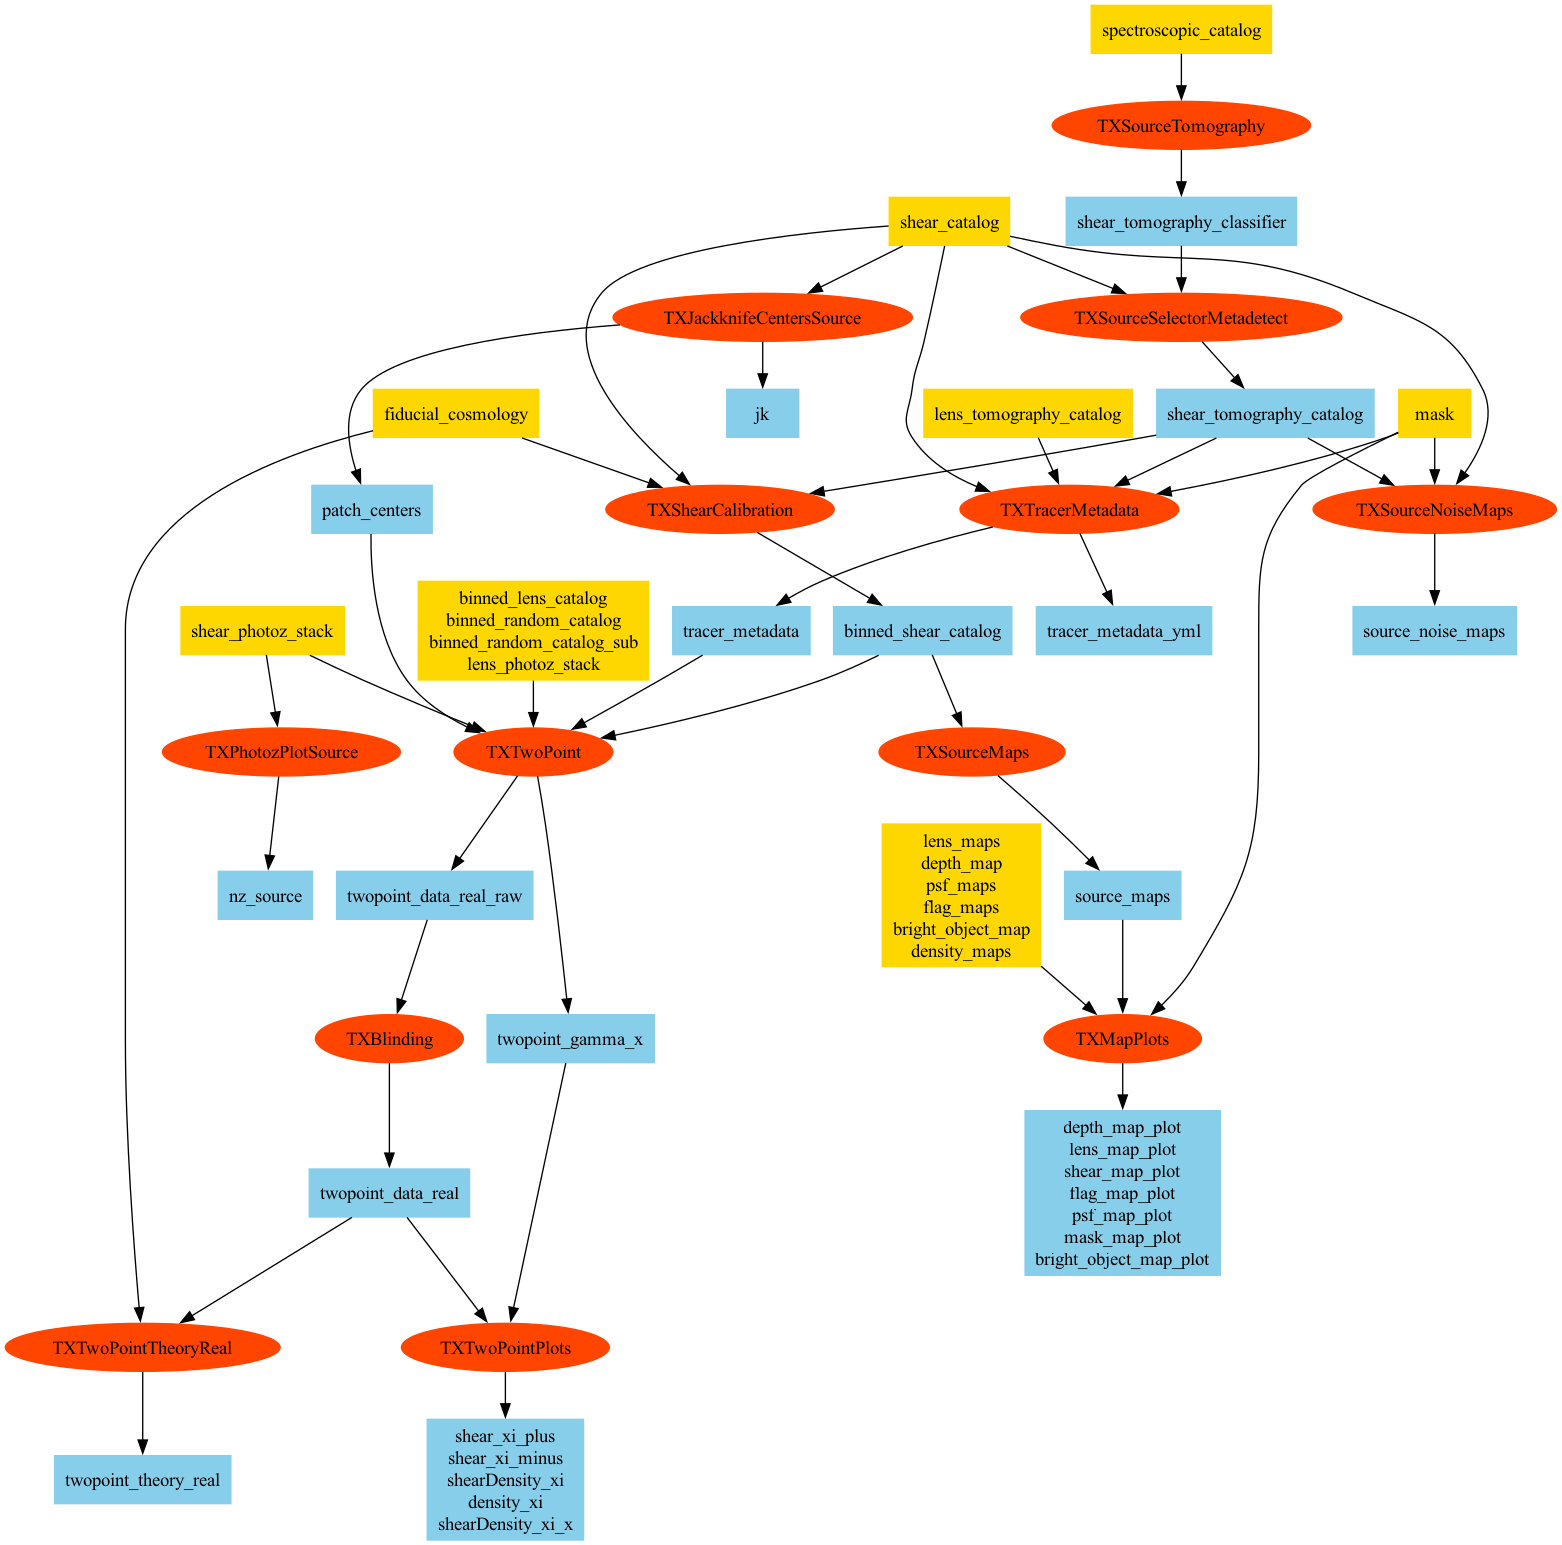
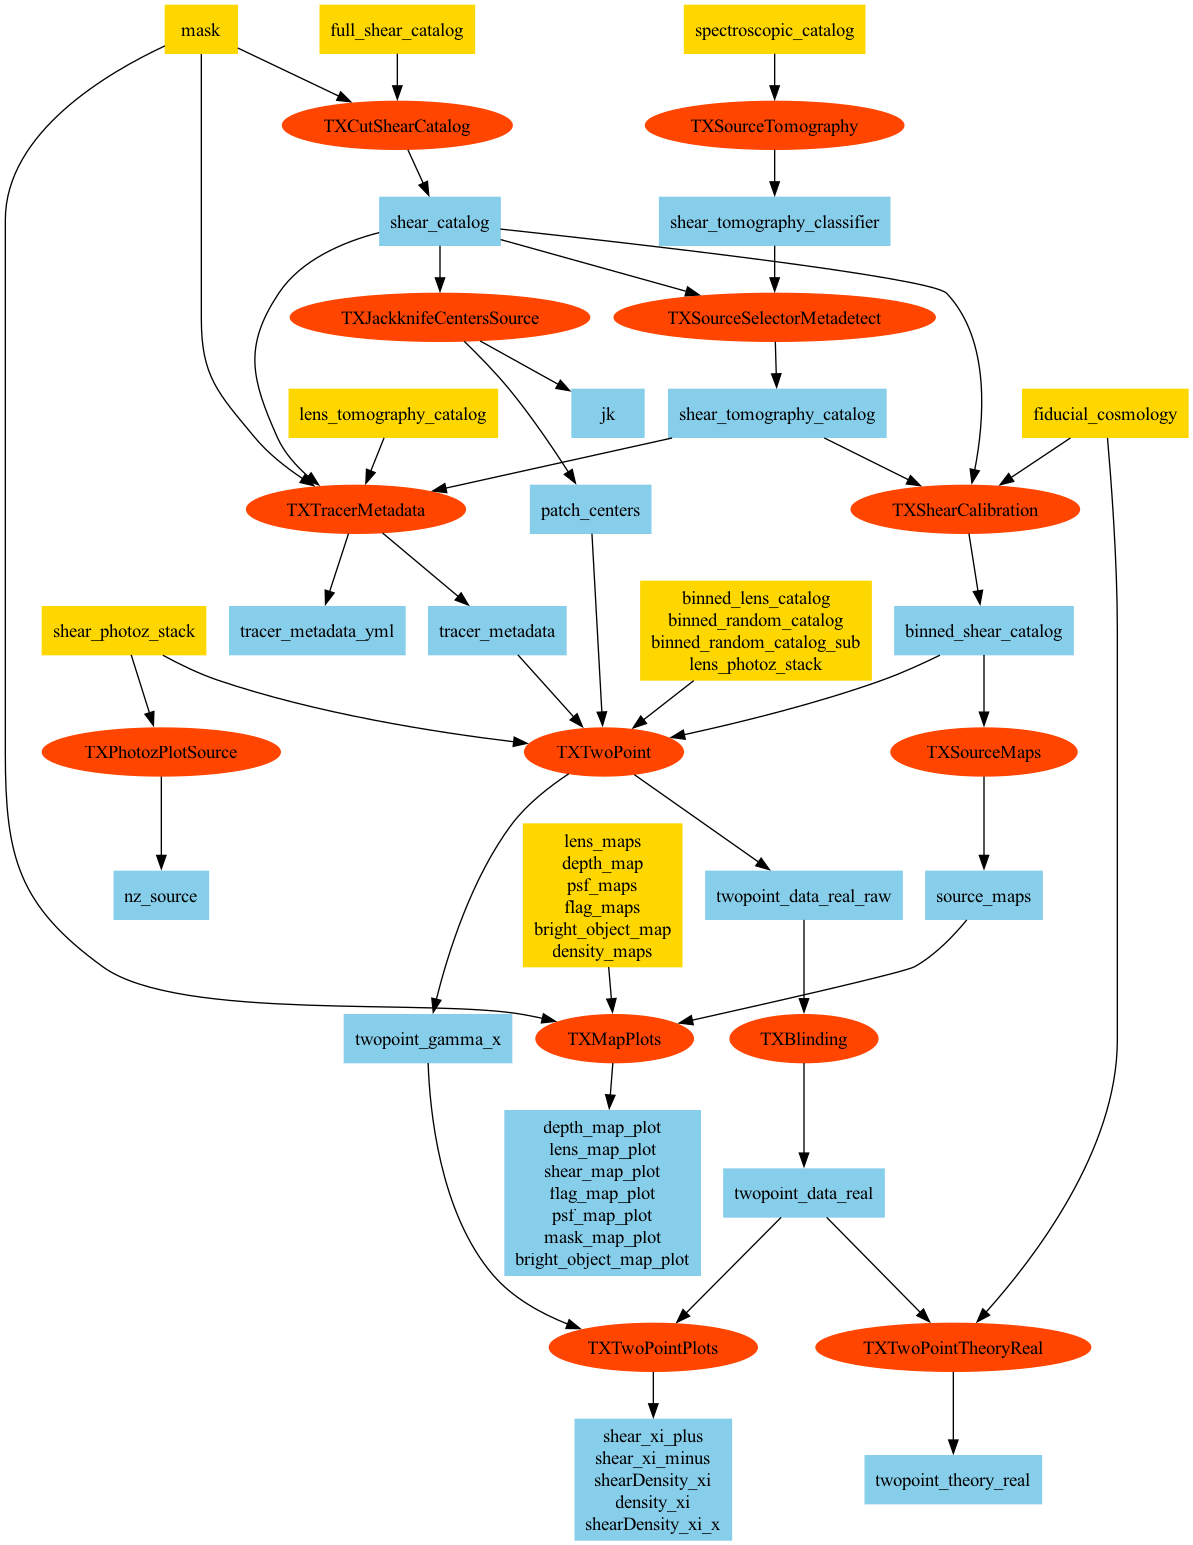
Fix error in last commit and update flow

diff --git a/txpipe/masks.py b/txpipe/masks.py
@@ -664,7 +664,7 @@ class TXCutShearCatalog(TXCutCatalog):
         ("mask", MapsFile),
     ]
     outputs = [("cut_shear_catalog", HDFFile)]
-    config_options = {k:v for k,v in TXCutCatalog.items() if k != "catalog_groups"}
+    config_options = {k:v for k,v in TXCutCatalog.config_options.items() if k != "catalog_groups"}
 
     catalog_input_name = "shear_catalog"
     catalog_output_name = "cut_shear_catalog"
